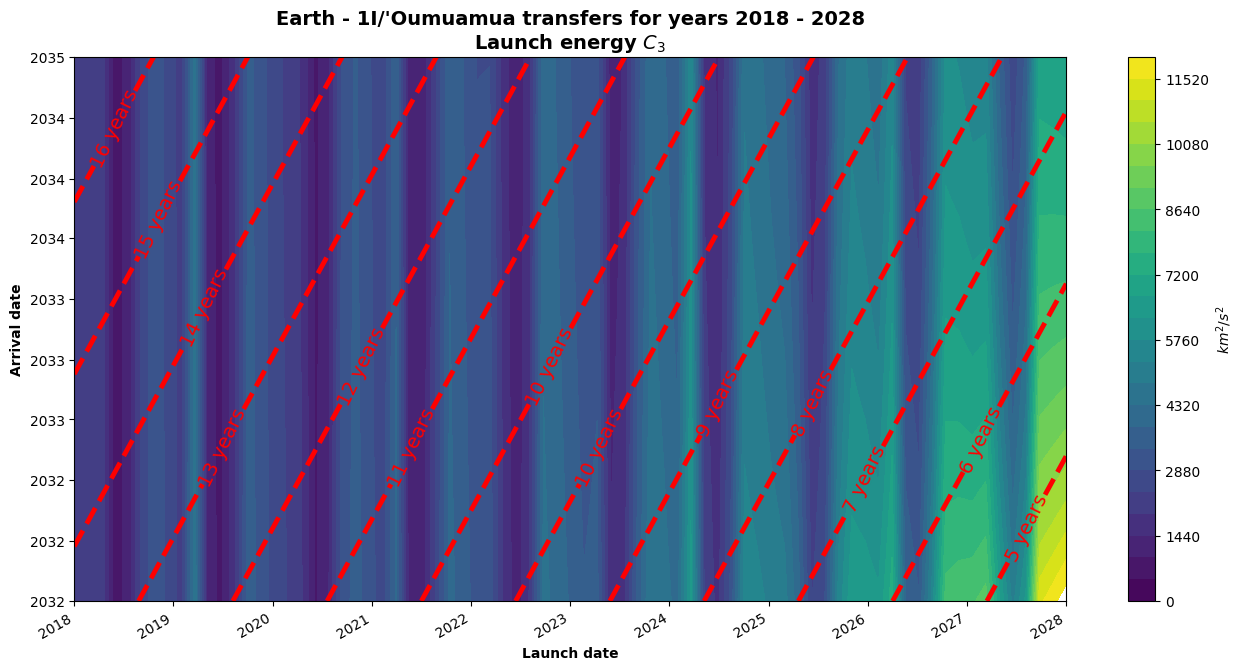
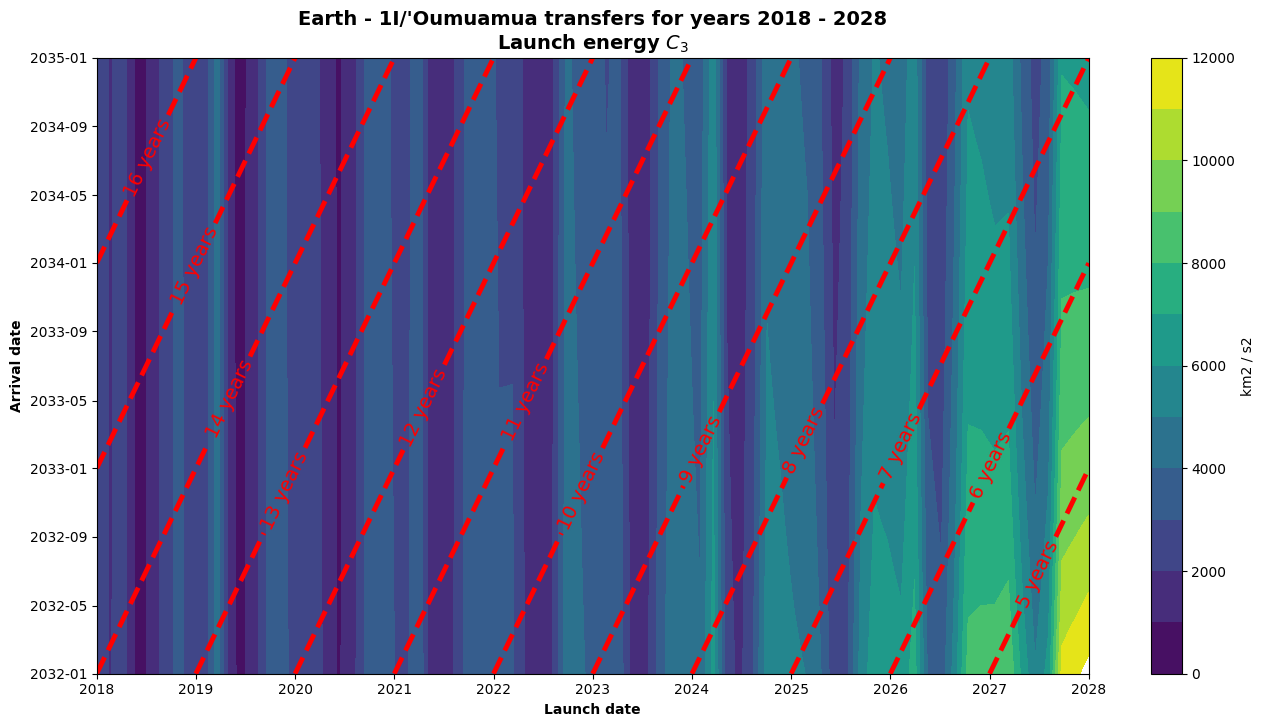
feat: complete porkchop figures

diff --git a/bin/oumuamua_porkchop.py b/bin/oumuamua_porkchop.py
@@ -16,7 +16,7 @@ def main():
     launch_span = time_range("2018-01-01", end="2028-01-01", num_values=N)
     arrival_span = time_range("2032-01-01", end="2035-01-01", num_values=N)
 
-    borisov_ephem = Ephem.from_horizons("C/2019 Q4", launch_span)
+    borisov_ephem = Ephem.from_horizons("'Oumuamua", launch_span)
     borisov = Orbit.from_ephem(Sun, borisov_ephem, Time("2018-01-01"))
 
     _, ax = plt.subplots(figsize=(16, 8))
@@ -30,9 +30,9 @@ def main():
         plot_tof_lines=True,
         plot_dv_lines=False,
         plot_av_lines=False,
-        title="Earth - 2I/Borisov transfers for years 2018 - 2028\nLaunch energy $C_3$"
+        title="Earth - 1I/'Oumuamua transfers for years 2018 - 2028\nLaunch energy $C_3$"
     )
-    plt.savefig("fig/static/borisov/direct-transfer-porkchop.png", bbox_inches="tight")
+    plt.savefig("fig/static/oumuamua/direct-transfer-porkchop.png", bbox_inches="tight")
     plt.show()
 
 if __name__ == "__main__":
